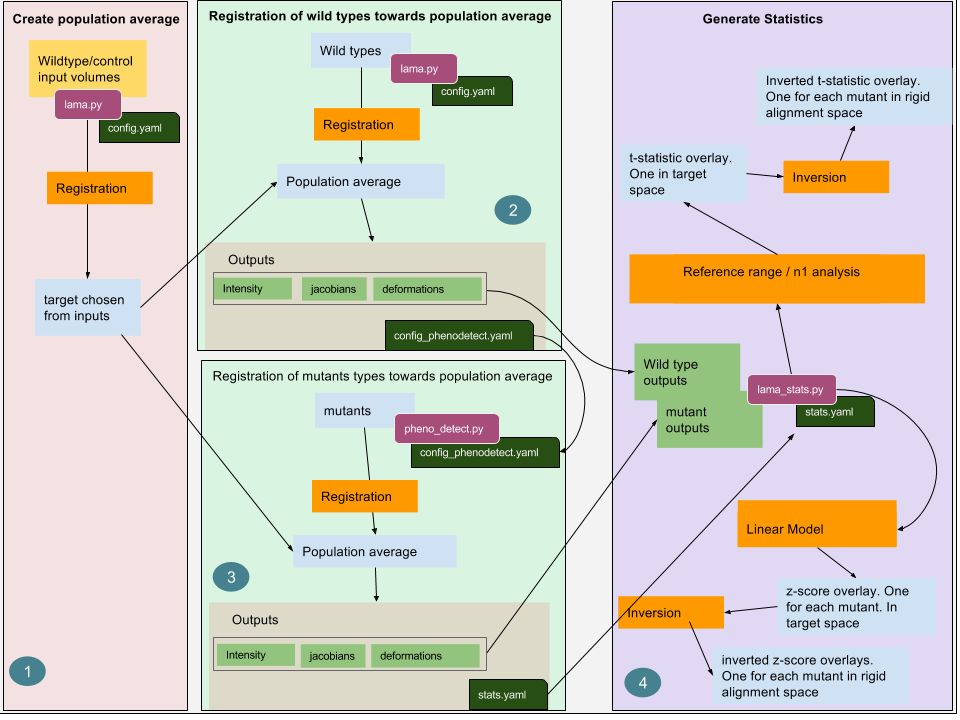
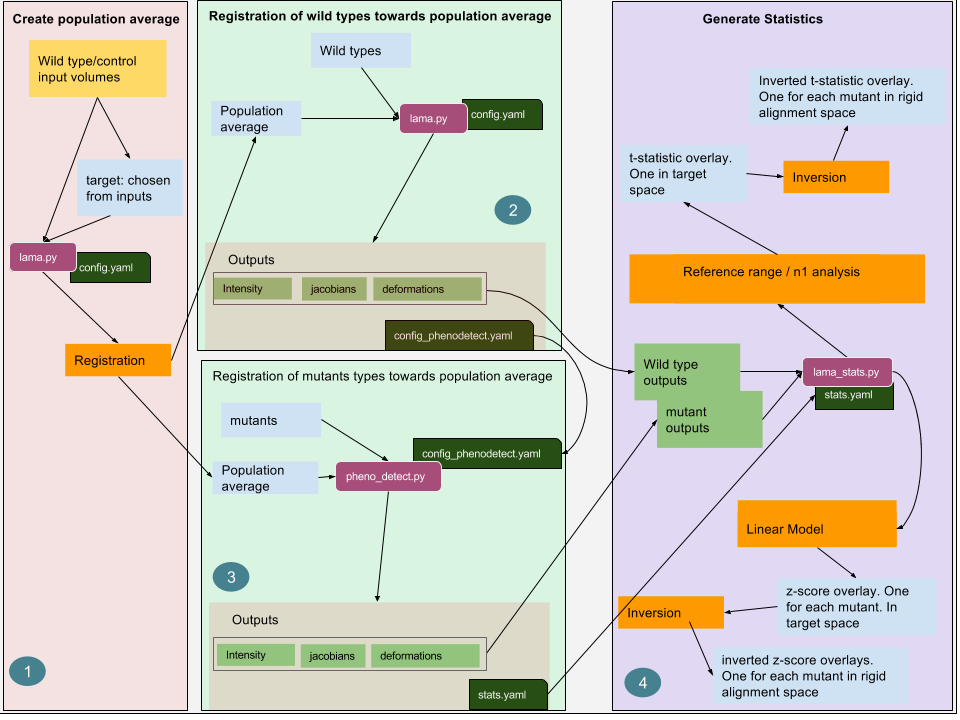
Updated documentation
Former-commit-id: db2020cee7e13f0175439f8d5656d52b6777459d

diff --git a/docs/LAMA_documentation.html b/docs/LAMA_documentation.html
@@ -106,6 +106,10 @@ It was originally developed for use with whole-embryo ct scans of knockout mice,
 </p>
 
 <p>
+These docs are a work in progress, and will be updated shortly.
+</p>
+
+<p>
 If you have any questions or comments, please contact us at <a href="mailto:sig@har.mrc.ac.uk" title="sig@har.mrc.ac.uk" class="mailto">sig@har.mrc.ac.uk</a>
 </p>
 
@@ -118,9 +122,9 @@ If you have any questions or comments, please contact us at <a href="mailto:sig@
 <p>
 <ul>
 <li><a href="./LAMA_documentation_files/Getting_started.html" title="Getting started" class="page">Getting started</a></li>
+<li><a href="./LAMA_documentation_files/Workflow.html" title="Workflow" class="page">Workflow</a></li>
 <li><a href="./LAMA_documentation_files/config_files.html" title="Config files" class="page">Config files</a></li>
 <li><a href="./LAMA_documentation_files/Creating_a_population_average.html" title="Creating a population average" class="page">Creating a population average</a></li>
-<li><a href="" title="Workflow" class="page">Workflow</a></li>
 <li><a href="./LAMA_documentation_files/Running_phenotype_detection.html" title="Running phenotype detection" class="page">Running phenotype detection</a></li>
 <li><a href="./LAMA_documentation_files/Statistics.html" title="Statistics" class="page">Statistics</a></li>
 <li><a href="./LAMA_documentation_files/visualising_results.html" title="Visualising results" class="page">Visualising results</a></li>

diff --git a/docs/LAMA_documentation_files/config_files.html b/docs/LAMA_documentation_files/config_files.html
@@ -153,6 +153,27 @@ This section, located at the top of the file, describes the paths to the data, h
 </div>
 
 <p>
+<b>inputvolumes_dir</b><br>
+required: true<br>
+folder containg input volumes. Relative to config file<br>
+<div style='padding-left: 30pt'>
+Or
+</div>
+a file containg path to root folder (relative to config file) on the first line and a series of inputs on sebsequent lines. This is useful if you want to use inputs in multiple projects.<br>
+Example inputs file<br>
+<div style='padding-left: 30pt'>
+path/to/<tt>input_dir</tt><br>
+<tt>file_name_1.nrrd</tt>
+</div>
+</p>
+<pre>
+ file_name_2.nrrd
+ file_name_3.nrrd
+</pre>
+
+<br>
+
+<p>
 <b>pad_dims</b><br>
 required:  true<br>
 If set to <tt>true</tt>, the input images, target, mask, and labelmap will be padded to match the largest dimension sizes of the input images or target<br>
@@ -202,8 +223,6 @@ deformable_to_8
 setting <tt>generate_deformation_fields: deformable_to_16</tt><br>
 would generate deformation fields describing the transformation of the last two stages
 </p>
-
-<br>
 
 <p>
 <b>skip_transform_inversion:</b><br>

diff --git a/docs/LAMA_documentation_files/Getting_started.html b/docs/LAMA_documentation_files/Getting_started.html
@@ -138,9 +138,9 @@ Created Friday 22 January 2016
 
 <p>
 <ul>
-<li><a href="./SimpleITK.html" title="SimpleITK" class="page">SimpleITK</a> can sometimes be problematic to install.  If you get import error complaing about SimpleITK, try the following
+<li>SimpleITK can sometimes be problematic to install.  If you get import error complaing about SimpleITK, try the following
 <ul>
-<li>At a terminal try the following, which installs <a href="./SimpleITK.html" title="SimpleITK" class="page">SimpleITK</a> with the home directory</li>
+<li>At a terminal try the following, which installs SimpleITK with the home directory</li>
 </ul></li>
 </ul>
 </p>

diff --git a/docs/LAMA_documentation_files/Statistics.html b/docs/LAMA_documentation_files/Statistics.html
@@ -50,7 +50,7 @@ function nextSlide() {
 }
 
 function prevSlide() {
-	window.location="./SimpleITK.html"
+	window.location="./Running_phenotype_detection.html"
 }
 
 
@@ -250,7 +250,7 @@ However, it can be useful to see the results overlaid onto the original images. 
 		</tr>
 		<tr>
 			<td colspan="3" align="center" valign="middle">
-<a href='./SimpleITK.html' class="nav">&lt;</a>
+<a href='./Running_phenotype_detection.html' class="nav">&lt;</a>
 				<a href='None' class="nav">+</a>
 
 <a href='./Trouble_shooting.html' class="nav">&gt;</a>			</td>

diff --git a/docs/LAMA_documentation_files/Running_phenotype_detection.html b/docs/LAMA_documentation_files/Running_phenotype_detection.html
@@ -46,7 +46,7 @@
 // Slideshow script - adapted from old kwiki package
 
 function nextSlide() {
-	window.location="./SimpleITK.html"
+	window.location="./Statistics.html"
 }
 
 function prevSlide() {
@@ -362,7 +362,7 @@ To solve this, you will have to re-run the wild type test set and set the paddin
 <a href='./Quick_start.html' class="nav">&lt;</a>
 				<a href='None' class="nav">+</a>
 
-<a href='./SimpleITK.html' class="nav">&gt;</a>			</td>
+<a href='./Statistics.html' class="nav">&gt;</a>			</td>
 		</tr>
 	</table>
 

diff --git a/docs/LAMA_documentation_files/Workflow.html b/docs/LAMA_documentation_files/Workflow.html
@@ -104,8 +104,16 @@ document.onkeypress = handleKey
 Created Friday 22 January 2016
 </p>
 
-<h2>Things that can go wrong</h2>
+<p>
+<img src="./Workflow/pasted_image001.png">
+</p>
 
+<p>
+Notes:<br>
+<ul>
+<li>in part (4) statistical analysis, lama_stats.py is run automatically after phenodetect. lama_stats.py can however be run independently afterwards</li>
+</ul>
+</p>
 
 
 <!-- End wiki content -->
